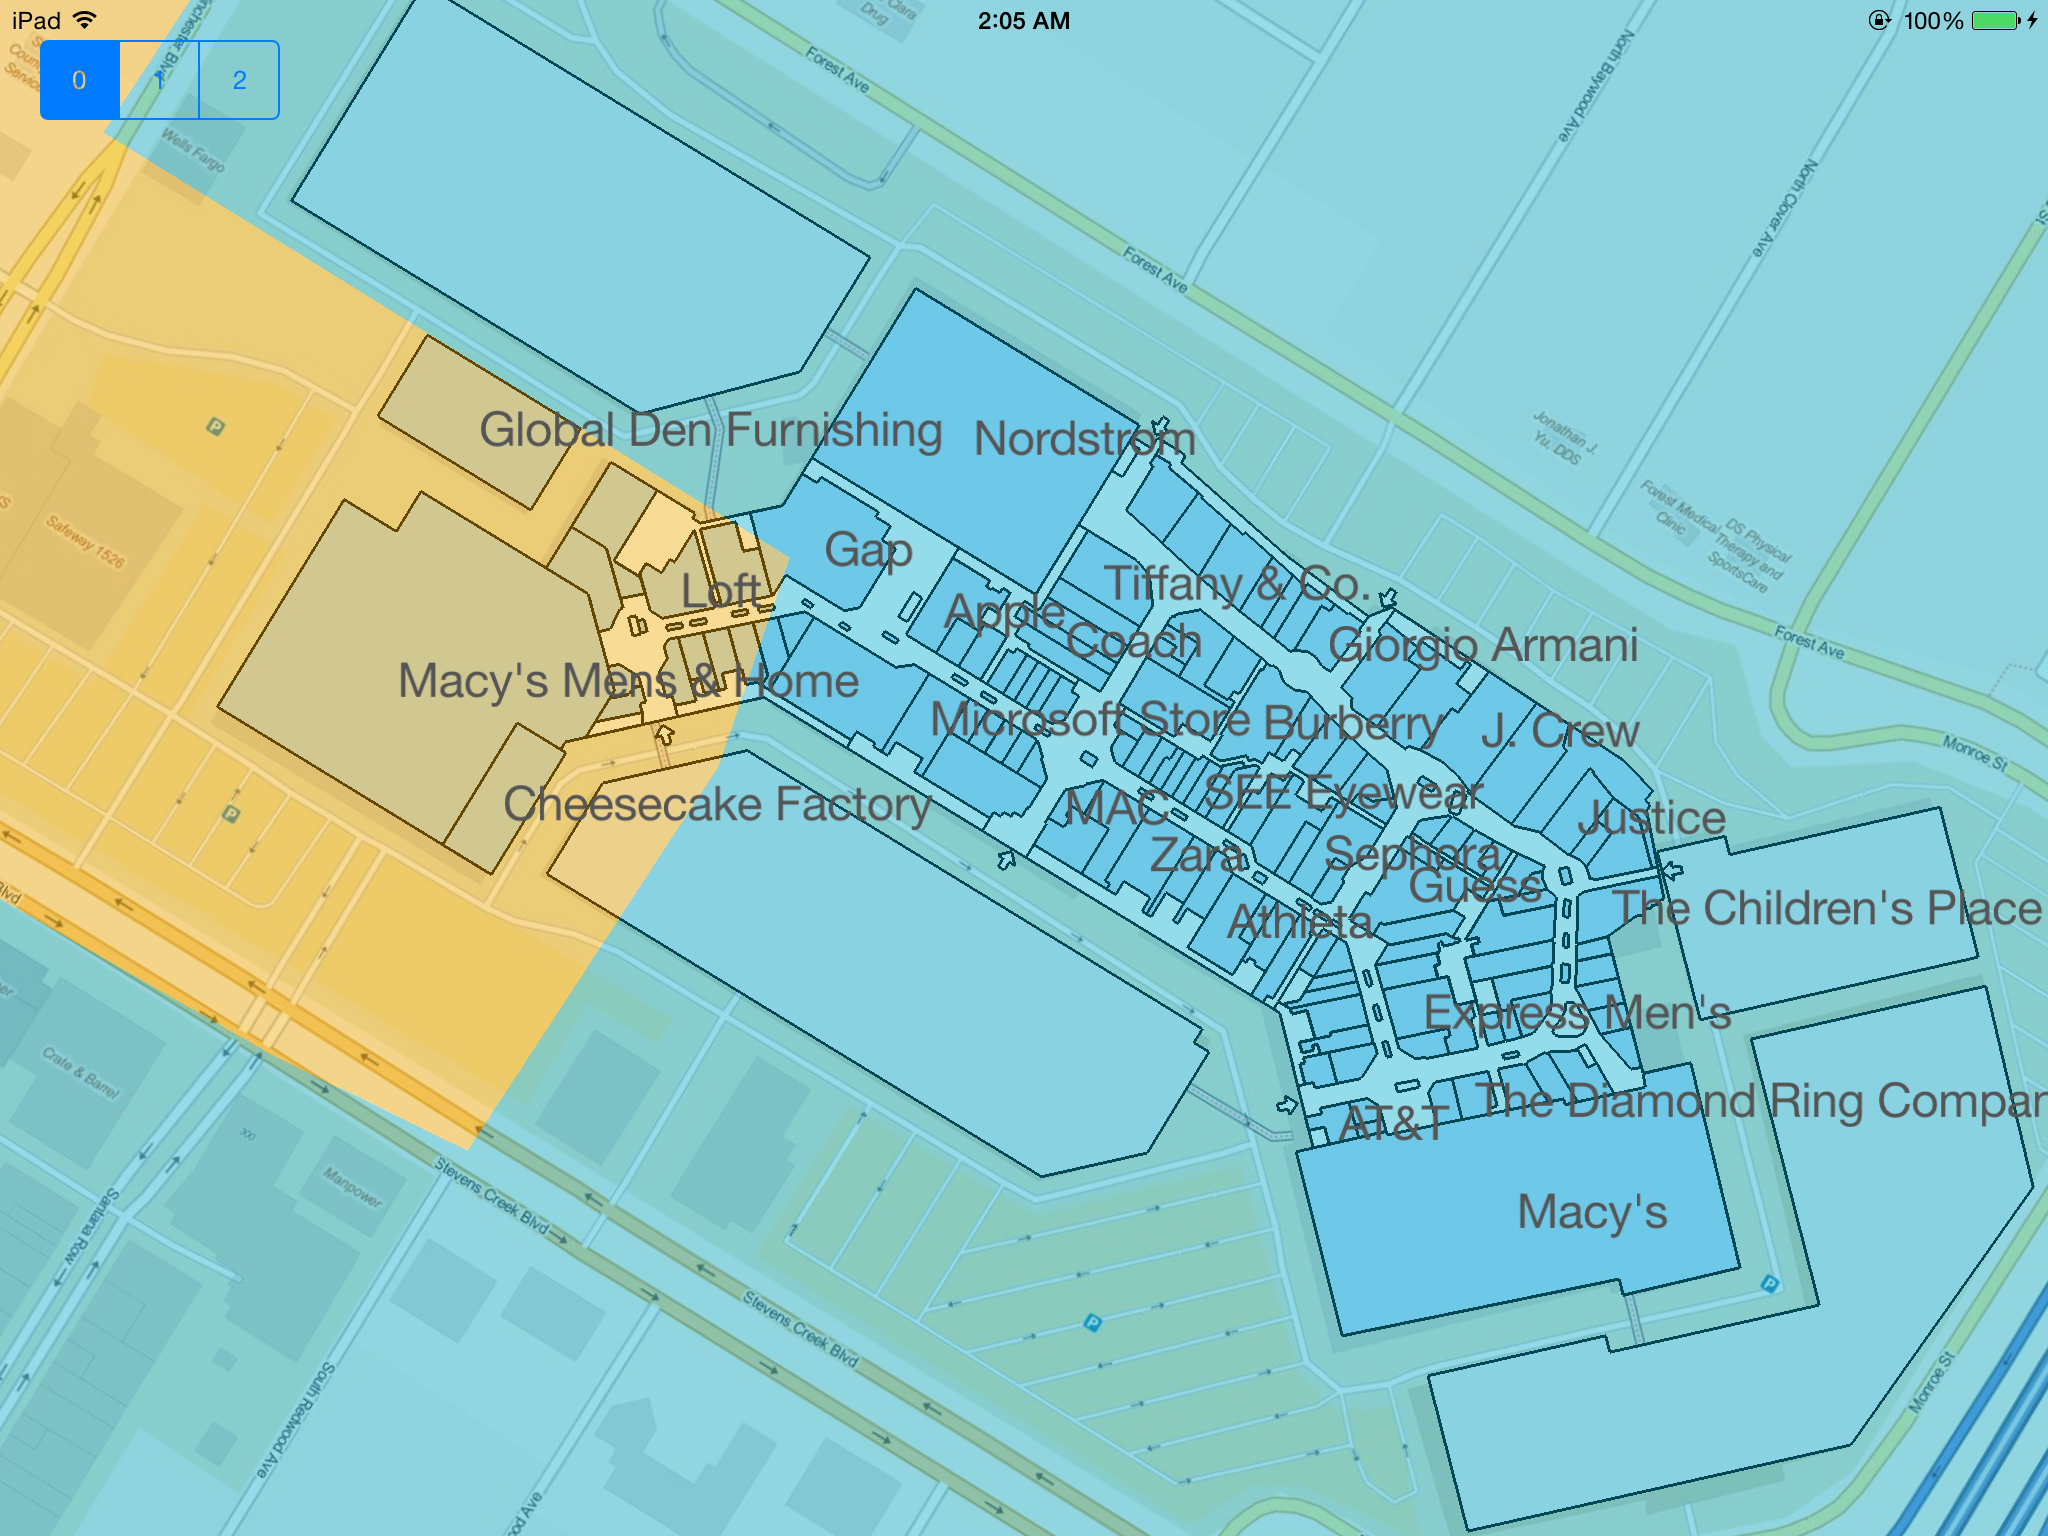
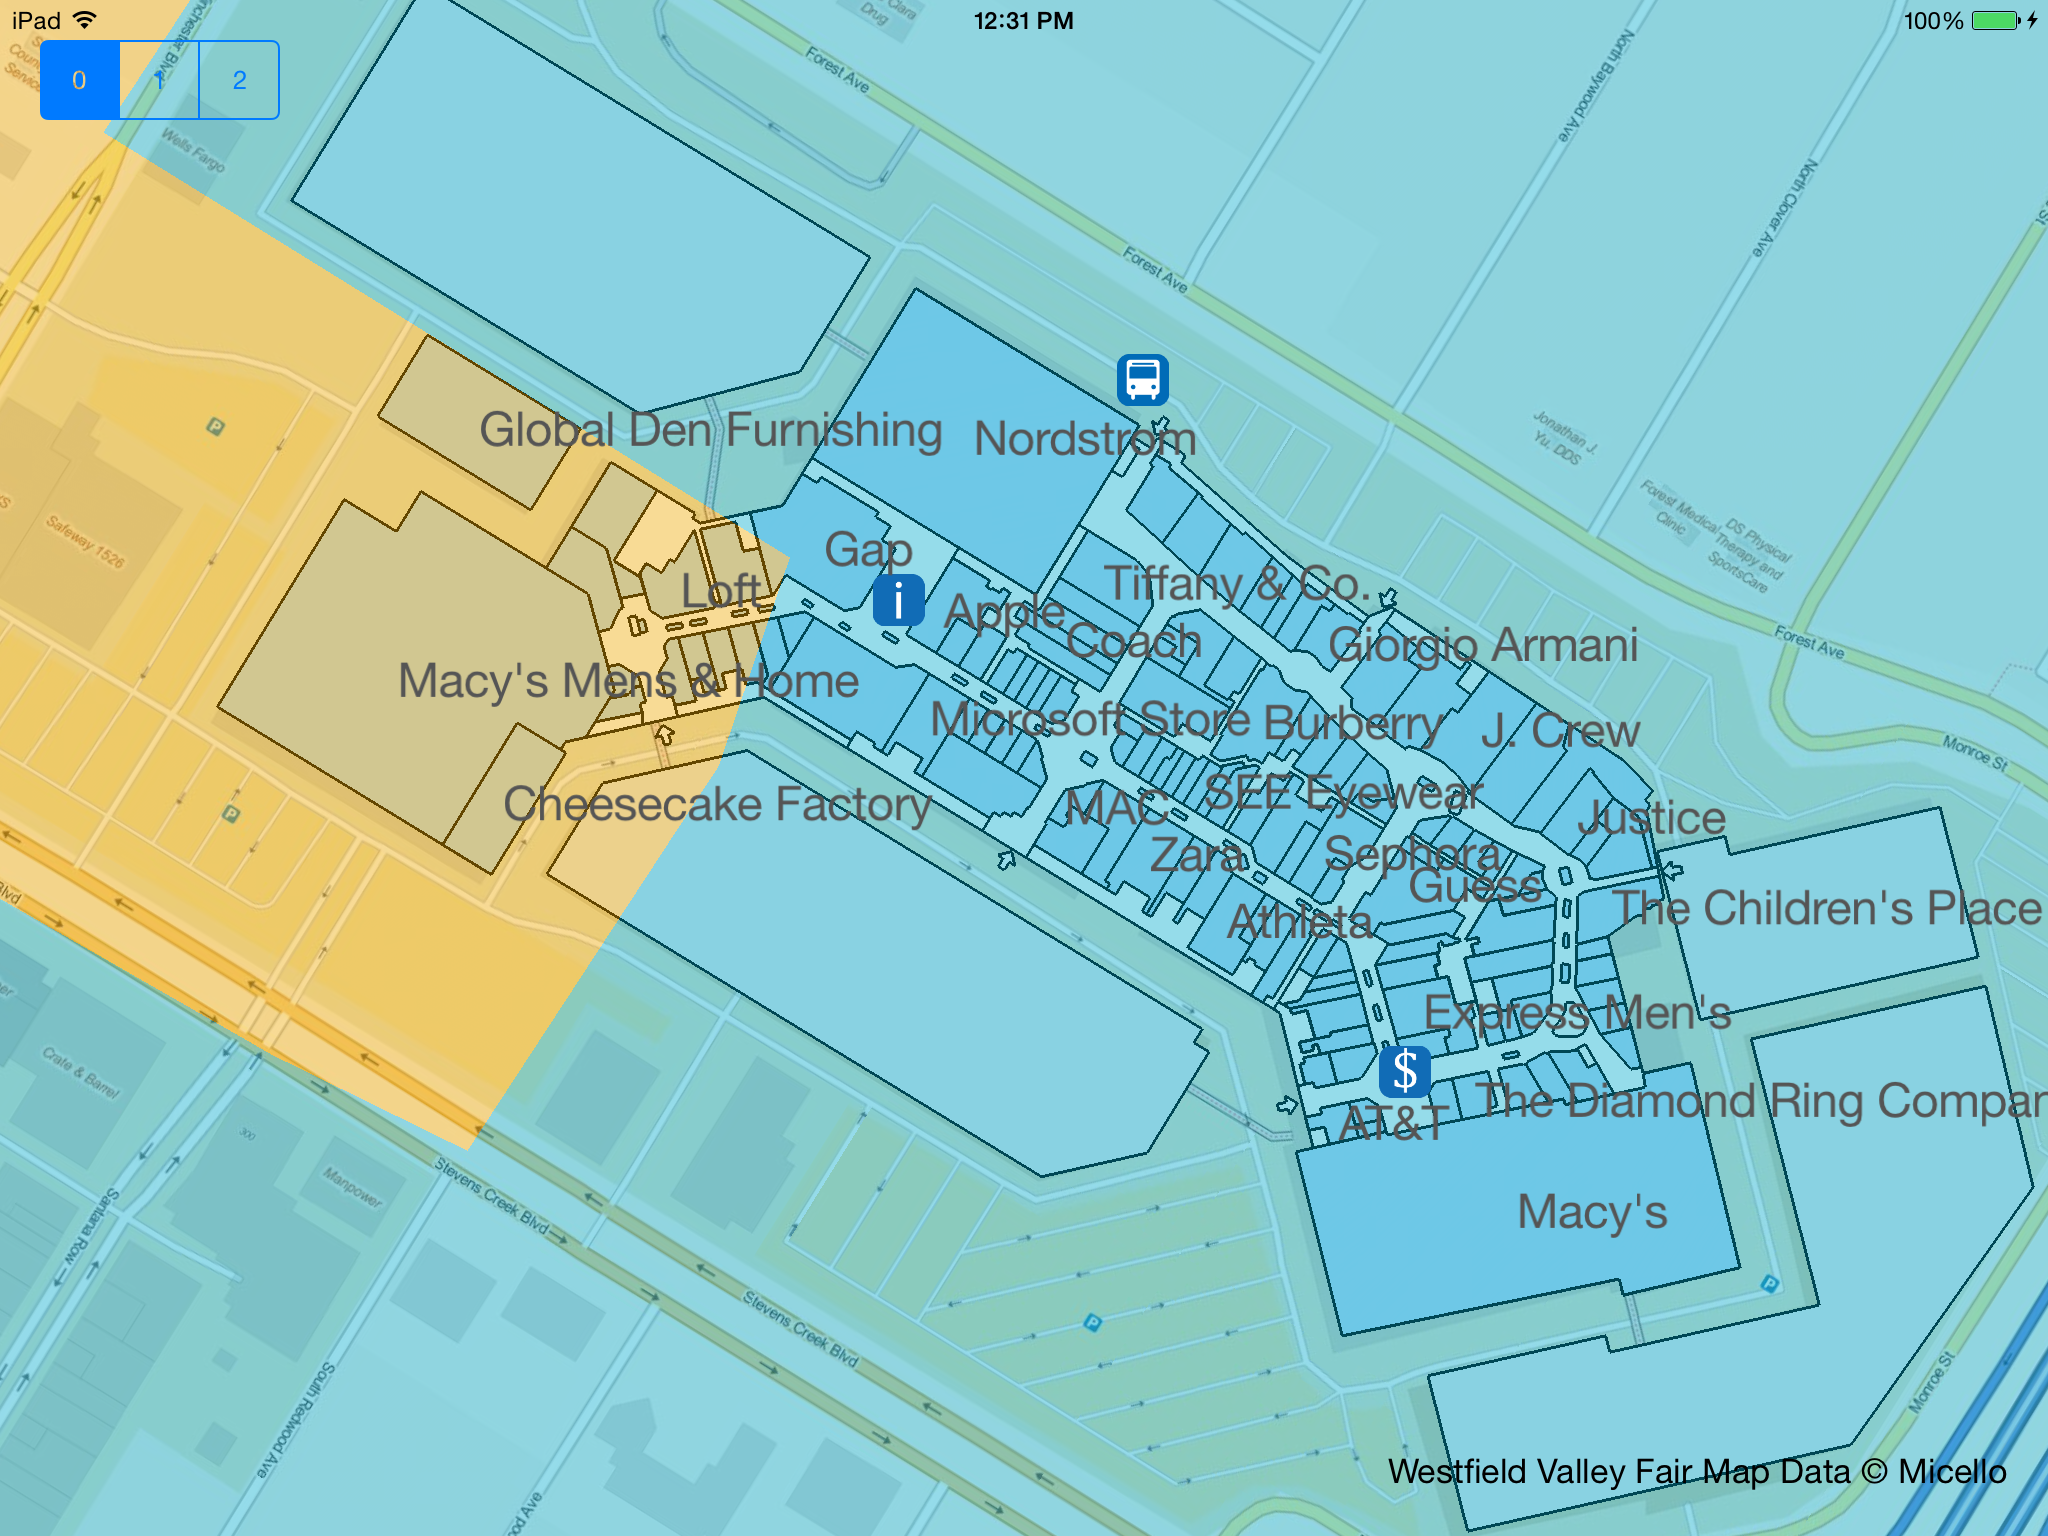
copyright notice and markers

diff --git a/tutorial/code/micello_map/MaplyMicelloMap.m b/tutorial/code/micello_map/MaplyMicelloMap.m
@@ -103,7 +103,7 @@
     int _baseDrawPriority;
     
     NSDictionary *_entities;
-    MaplyComponentObject *_outlinesCompObj, *_labelsCompObj, *_highlightCompObj;
+    MaplyComponentObject *_outlinesCompObj, *_labelsCompObj, *_highlightCompObj, *_markersCompObj;
     NSMutableArray *_fillCompObjs;
     NSMutableArray *_styleRules;
 }
@@ -319,8 +319,9 @@
                     for (NSMutableDictionary *rawFeature in rawFeatures) {
                         NSMutableDictionary *rawGeometry = rawFeature[@"geometry"];
                         NSString *sType = rawGeometry[@"type"];
+
                         if ([sType isEqualToString:@"Polygon"]) {
-                            
+
                             // Normalize coordinates to the center of the community map, to retain more precision.
                             NSMutableArray *coords = rawGeometry[@"coordinates"];
                             for (NSMutableArray *ring in coords) {
@@ -331,7 +332,7 @@
                                     coord[1] = @(latDeg.doubleValue - self.centerLatDeg);
                                 }
                             }
-                            
+
                             // Assign location and label_area attributes of the feature to the geometry, so that they can be used directly from the geometry elsewhere.
                             NSMutableDictionary *rawLocation = rawFeature[@"location"];
                             NSMutableDictionary *rawLabelArea = rawFeature[@"label_area"];
@@ -340,6 +341,27 @@
                                 rawProperties[@"location"] = rawLocation;
                             if (rawLabelArea && rawProperties)
                                 rawProperties[@"label_area"] = rawLabelArea;
+
+                        } else if ([sType isEqualToString:@"Point"]) {
+
+                            NSMutableArray *coord = rawGeometry[@"coordinates"];
+                            NSNumber *lonDeg = coord[0];
+                            NSNumber *latDeg = coord[1];
+                            NSMutableDictionary *rawProperties = rawFeature[@"properties"];
+                            rawProperties[@"lonDeg"] = lonDeg;
+                            rawProperties[@"latDeg"] = latDeg;
+
+                        } else if ([sType isEqualToString:@"LineString"]) {
+
+                            // Normalize coordinates to the center of the community map, to retain more precision.
+                            NSMutableArray *coords = rawGeometry[@"coordinates"];
+                            for (NSMutableArray *coord in coords) {
+                                NSNumber *lonDeg = coord[0];
+                                NSNumber *latDeg = coord[1];
+                                coord[0] = @(lonDeg.doubleValue - self.centerLonDeg);
+                                coord[1] = @(latDeg.doubleValue - self.centerLatDeg);
+
+                            }
                         }
                     }
                     MaplyVectorObject *vecObj = [MaplyVectorObject VectorObjectFromGeoJSONDictionary:jsonDict];
@@ -462,35 +484,63 @@
     return [NSDictionary dictionaryWithDictionary:desc];
 }
 
-- (void)setZLevel:(int)zLevel viewC:(MaplyBaseViewController *__nonnull)viewC {
-    
-    // Remove any vectors or labels that have been previously placed.
-    if (self.zLevel != -1) {
-        self.zLevel = -1;
-        
-        if (_highlightCompObj) {
-            [viewC removeObject:_highlightCompObj];
-            _highlightCompObj = nil;
-        }
-        if (_fillCompObjs.count > 0) {
-            for (MaplyComponentObject *compObj in _fillCompObjs)
-                [viewC removeObject:compObj];
-            _fillCompObjs = [NSMutableArray array];
-        }
-        if (_outlinesCompObj) {
-            [viewC removeObject:_outlinesCompObj];
-            _outlinesCompObj = nil;
-        }
-        if (_labelsCompObj) {
-            [viewC removeObject:_labelsCompObj];
-            _labelsCompObj = nil;
-        }
+- (MaplyScreenMarker *)markerForFeature:(MaplyVectorObject *)feature {
 
+    NSNumber *lonDeg = feature.attributes[@"lonDeg"];
+    NSNumber *latDeg = feature.attributes[@"latDeg"];
+    MaplyScreenMarker *marker = [[MaplyScreenMarker alloc] init];
+    marker.loc = MaplyCoordinateMakeWithDegrees(lonDeg.floatValue, latDeg.floatValue);
+
+    NSString *transit = feature.attributes[@"transit"];
+    NSString *facility = feature.attributes[@"facility"];
+    NSString *service = feature.attributes[@"service"];
+    NSString *use = feature.attributes[@"use"];
+    NSString *markerAttribute = feature.attributes[@"marker"];
+
+    UIImage *image;
+
+    if (facility && [facility isEqualToString:@"bathroom"])
+        image = [UIImage imageNamed:@"Bathroom"];
+    else if (facility && [facility isEqualToString:@"elevator"])
+        image = [UIImage imageNamed:@"Elevator"];
+    else if (facility && [facility isEqualToString:@"escalator"])
+        image = [UIImage imageNamed:@"Escalator"];
+    else if (markerAttribute && [markerAttribute isEqualToString:@"disabled access"])
+        image = [UIImage imageNamed:@"Disabled Access"];
+    else if (service && [service isEqualToString:@"atm"])
+        image = [UIImage imageNamed:@"ATM"];
+    else if (service && [service isEqualToString:@"changing station"])
+        image = [UIImage imageNamed:@"Changing Station"];
+    else if (service && [service isEqualToString:@"mail"])
+        image = [UIImage imageNamed:@"Mail"];
+    else if (service && [service isEqualToString:@"santa"])
+        image = [UIImage imageNamed:@"Santa"];
+    else if (service && [service isEqualToString:@"stroller"])
+        image = [UIImage imageNamed:@"Stroller"];
+    else if (service && [service isEqualToString:@"wifi"])
+        image = [UIImage imageNamed:@"Wifi"];
+    else if (transit && [transit isEqualToString:@"bus"])
+        image = [UIImage imageNamed:@"Bus"];
+    else if (use && [use isEqualToString:@"information"])
+        image = [UIImage imageNamed:@"Information"];
+
+    if (!image) {
+        return nil;
     }
-    
+
+    marker.image = image;
+    marker.size = CGSizeMake( image.size.width / 4.0, image.size.height / 4.0);
+
+    return marker;
+}
+
+- (void)setZLevel:(int)zLevel viewC:(MaplyBaseViewController *__nonnull)viewC {
+    // Remove any vectors, labels, or markers that have been previously placed.
+    [self removeFromViewC:viewC];
+
     // Fetch the levels corresponding to the z-level.
     [self startFetchZLevel:zLevel success:^{
-        
+
         // Add the vectors and labels
         
         NSArray *levels = self.zLevelsToLevels[@(zLevel)];
@@ -532,11 +582,18 @@
                                      kMaplyFont: [UIFont systemFontOfSize:24.0],
                                      kMaplyTextColor: [UIColor darkGrayColor]
                                      };
+
+        NSDictionary *markersDesc = @{
+                                      kMaplyDrawPriority: @(_baseDrawPriority+35),
+                                      kMaplyMinVis:       @(0),
+                                      kMaplyMaxVis:       @(0.0002)
+                                      };
         
         NSMutableArray *selFeaturesArrays = [NSMutableArray array];
         NSMutableArray *noSelFeaturesArrays = [NSMutableArray array];
         NSMutableArray *outlineFeatures = [NSMutableArray array];
         NSMutableArray *labels = [NSMutableArray array];
+        NSMutableArray *markers = [NSMutableArray array];
         
         for (int i=0; i<_styleRules.count+1; i++) {
             // Once for each style rule, and once more for no match
@@ -548,16 +605,31 @@
         for (MaplyMicelloMapLevel *level in levels) {
         
             for (MaplyVectorObject *feature in level.features) {
-                [outlineFeatures addObject:feature];
-                int styleIndex = [self styleIndexForFeature:feature];
                 
-                if (feature.attributes[@"entities"]) {
-                    [((NSMutableArray *)selFeaturesArrays[styleIndex]) addObject:feature];
-                    MaplyScreenLabel *label = [self labelForFeature:feature];
-                    if (label)
-                        [labels addObject:label];
-                } else
-                    [((NSMutableArray *)noSelFeaturesArrays[styleIndex]) addObject:feature];
+                MaplyVectorObjectType vecType = [feature vectorType];
+
+                if (vecType == MaplyVectorArealType) {
+
+                    [outlineFeatures addObject:feature];
+                    int styleIndex = [self styleIndexForFeature:feature];
+
+                    if (feature.attributes[@"entities"]) {
+                        [((NSMutableArray *)selFeaturesArrays[styleIndex]) addObject:feature];
+                        MaplyScreenLabel *label = [self labelForFeature:feature];
+                        if (label)
+                            [labels addObject:label];
+                    } else
+                        [((NSMutableArray *)noSelFeaturesArrays[styleIndex]) addObject:feature];
+
+                } else if (vecType == MaplyVectorPointType) {
+                    MaplyScreenMarker *marker = [self markerForFeature:feature];
+                    if (marker) {
+                        [markers addObject:marker];
+                    }
+
+                } else if (vecType == MaplyVectorLinearType) {
+
+                }
             }
         }
         
@@ -571,6 +643,7 @@
         
         _outlinesCompObj = [viewC addVectors:outlineFeatures desc:outlineDesc];
         _labelsCompObj = [viewC addScreenLabels:labels desc:labelsDesc];
+        _markersCompObj = [viewC addScreenMarkers:markers desc:markersDesc];
         
         self.zLevel = zLevel;
         
@@ -626,10 +699,33 @@
     }
 }
 
+- (void)removeFromViewC:(MaplyBaseViewController *__nonnull)viewC {
+    if (self.zLevel != -1) {
+        self.zLevel = -1;
+
+        if (_highlightCompObj) {
+            [viewC removeObject:_highlightCompObj];
+            _highlightCompObj = nil;
+        }
+        if (_fillCompObjs.count > 0) {
+            for (MaplyComponentObject *compObj in _fillCompObjs)
+                [viewC removeObject:compObj];
+            _fillCompObjs = [NSMutableArray array];
+        }
+        if (_outlinesCompObj) {
+            [viewC removeObject:_outlinesCompObj];
+            _outlinesCompObj = nil;
+        }
+        if (_labelsCompObj) {
+            [viewC removeObject:_labelsCompObj];
+            _labelsCompObj = nil;
+        }
+        if (_markersCompObj) {
+            [viewC removeObject:_markersCompObj];
+            _markersCompObj = nil;
+        }
+    }
+}
+
 @end
-
-
-
-
-
 

diff --git a/tutorial/code/micello_map/ViewController.m b/tutorial/code/micello_map/ViewController.m
@@ -32,7 +32,15 @@
     layer.drawPriority = 100;
     layer.handleEdges = true;
     [globeVC addLayer:layer];
-    
+
+    // Add Micello copyright notice
+    UILabel *copyrightLabel = [[UILabel alloc] init];
+    [copyrightLabel setTranslatesAutoresizingMaskIntoConstraints:NO];
+    copyrightLabel.text = @"Westfield Valley Fair Map Data © Micello";
+    copyrightLabel.textAlignment = NSTextAlignmentRight;
+    [globeVC.view addSubview:copyrightLabel];
+    [globeVC.view addConstraints:[NSLayoutConstraint constraintsWithVisualFormat:@"[copyrightLabel(200)]-20-|" options:0 metrics:nil views:NSDictionaryOfVariableBindings(copyrightLabel)]];
+    [globeVC.view addConstraints:[NSLayoutConstraint constraintsWithVisualFormat:@"V:[copyrightLabel(25)]-20-|" options:0 metrics:nil views:NSDictionaryOfVariableBindings(copyrightLabel)]];
 }
 
 @end

diff --git a/tutorial/code/micello_map/MaplyMicelloMap.h b/tutorial/code/micello_map/MaplyMicelloMap.h
@@ -199,4 +199,9 @@
  */
 - (void)clearSelectionViewC:(MaplyBaseViewController *__nonnull)viewC;
 
+/** @brief Remove the Community Map from the map or globe.
+    @details Call this to remove the Micello Community Map from the map or globe.
+ */
+- (void)removeFromViewC:(MaplyBaseViewController *__nonnull)viewC;
+
 @end
